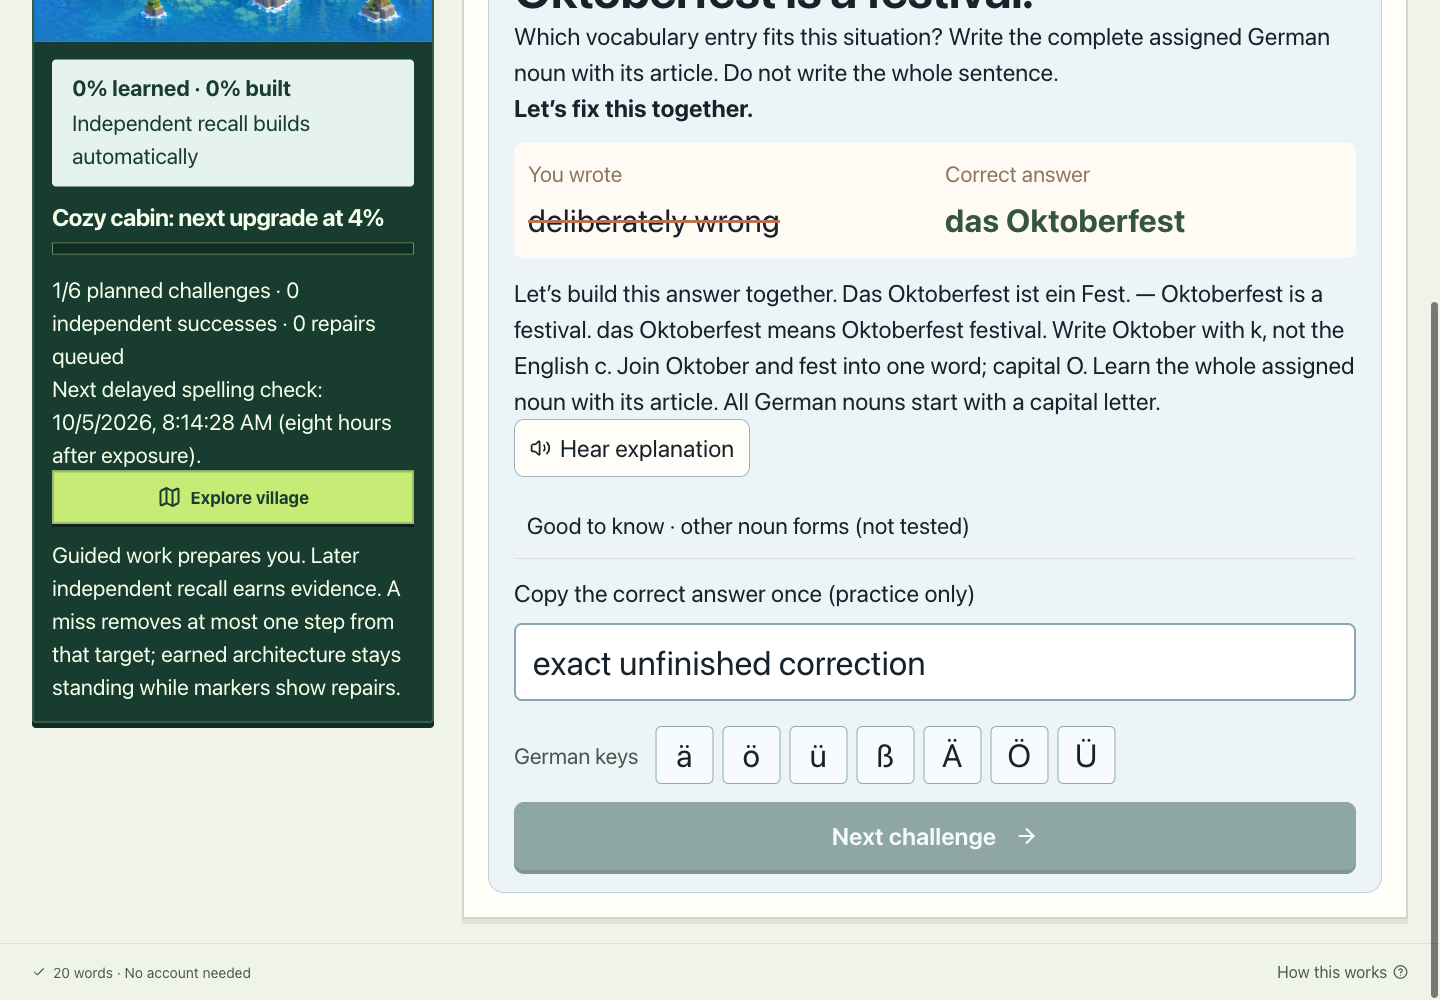
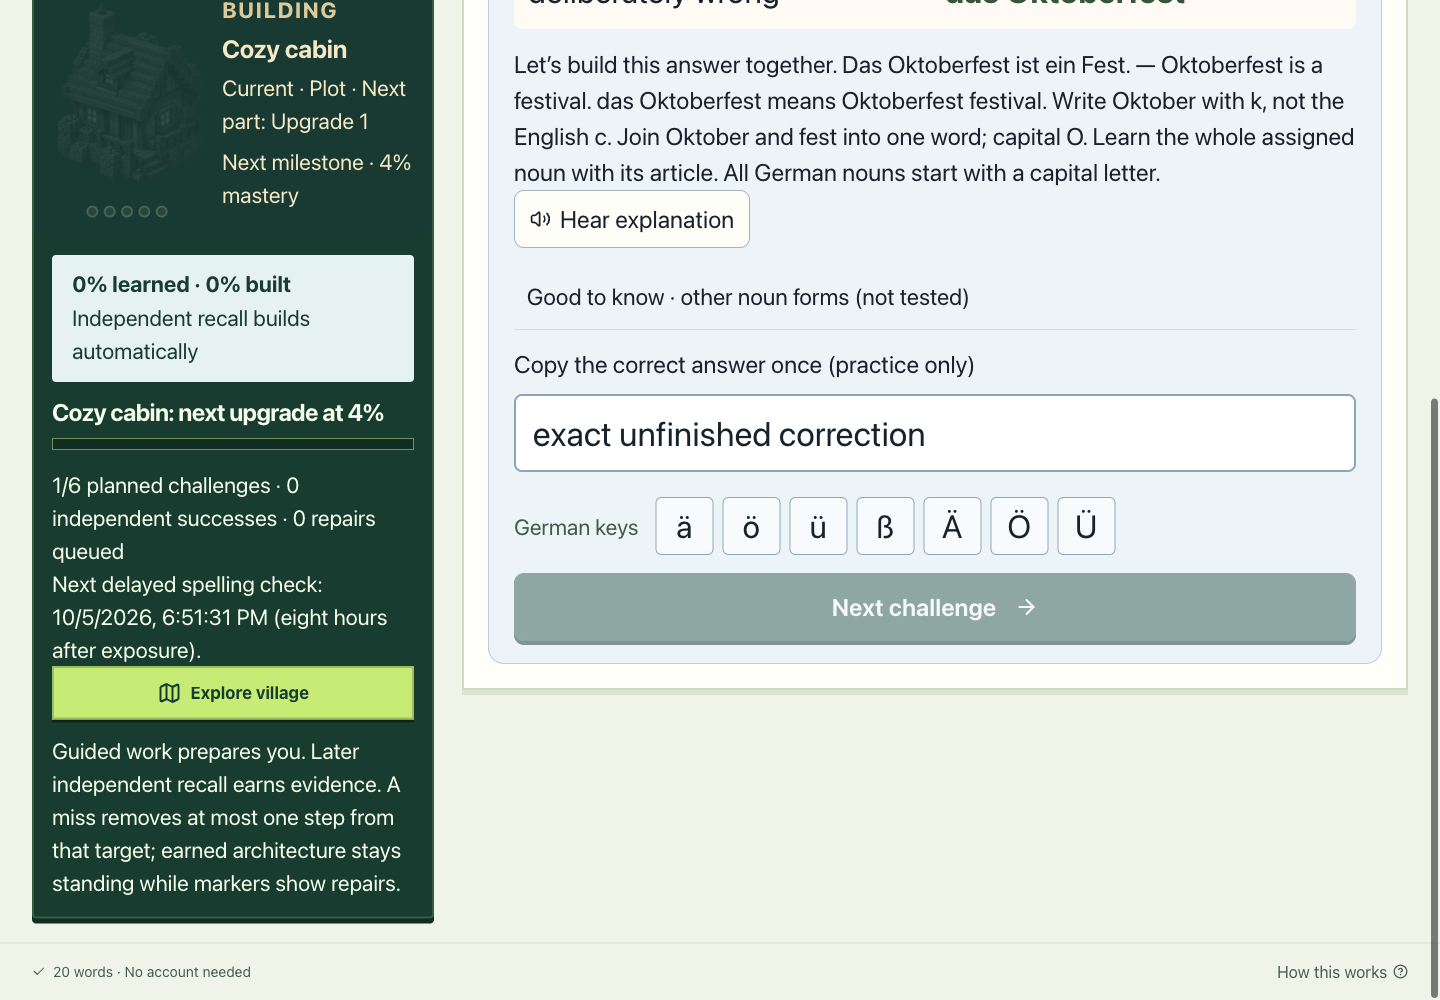
feat(village): show selected district close-up during study

diff --git a/src/Settlement.jsx b/src/Settlement.jsx
@@ -1,6 +1,6 @@
 import React, { useState } from 'react';
 import { deriveSettlement, DISTRICT_CATALOG, buildingMilestones } from './settlement.js';
-import { BUILDINGS } from './game.js';
+import { BUILDINGS, gameStatus } from './game.js';
 import { BuildingSprite } from './Outpost.jsx';
 import VillageBuilding from './VillageBuilding.jsx';
 import ConstructionSprite, { CONSTRUCTION_STAGES } from './ConstructionSprite.jsx';
@@ -19,6 +19,24 @@ function ExistingDistrict({ district }) {
   return <span className="settlement-cluster" aria-label={district.legacy ? `${built.length} legacy rewards` : `Earned architecture at ${district.historicalPercent}%`}>
     {built.map(id => {const i=BUILDINGS.findIndex(b=>b.id===id); return district.legacy ? <BuildingSprite key={id} id={id} className={`settlement-old-building home-slot-${i}`} /> : <VillageBuilding key={id} id={id} currentLevel={district.currentLevels[id]} historicalLevel={district.earnedLevels[id]} className={`settlement-old-building home-slot-${i}`} />;})}
   </span>;
+}
+
+export function DistrictFocus({ library, waveId }) {
+  const district=deriveSettlement(library).find(d=>d.waveId===waveId);
+  if (!district || district.legacy) return null;
+  const status=gameStatus(district.wave.progress.game);
+  const building=status.selectedBuild;
+  const position=district.design.position || {x:50,y:50};
+  return <div className="district-focus" aria-label={`${district.design.name} study close-up`} data-district-id={district.id}>
+    <div className="district-focus-heading"><span className="eyebrow">YOUR DISTRICT · CLOSE-UP</span><strong>{district.design.name}</strong></div>
+    <div className="district-focus-ground" style={{backgroundImage:`url(${terrain})`,backgroundPosition:`${position.x}% ${position.y}%`}}>
+      <ExistingDistrict district={district}/>
+    </div>
+    <div className="district-focus-building">
+      <VillageBuilding id={building.id} currentLevel={district.currentLevels[building.id]} historicalLevel={district.earnedLevels[building.id]}/>
+      <div><span className="eyebrow">{status.allBuilt ? 'EARNED LANDMARK' : 'CURRENT BUILDING'}</span><h3>{building.label}</h3><p>{status.allBuilt ? 'All five upgrades earned.' : `Current · ${district.currentLevels[building.id]===0 ? 'Plot' : `Upgrade ${district.currentLevels[building.id]}`} · Next part: Upgrade ${district.currentLevels[building.id]+1}`}</p><p>{status.allBuilt ? 'District complete.' : `Next milestone · ${status.nextThreshold}% mastery`}</p></div>
+    </div>
+  </div>;
 }
 
 function Scene({ districts, selectedId, onSelect, previewCount, bakeryPreviewLevel }) {

diff --git a/src/Outpost.jsx b/src/Outpost.jsx
@@ -20,8 +20,8 @@ export function BuildingSprite({ id, className = "" }) {
   );
 }
 
-export function MissionHUD({ game, locked, onOpen, onBuild, learning }) {
-  if (learning?.scoringVersion === 2) return <VillageView game={game} learning={learning} compact locked={locked} onOpen={onOpen} />;
+export function MissionHUD({ game, locked, onOpen, onBuild, learning, districtVisual }) {
+  if (learning?.scoringVersion === 2) return <VillageView game={game} learning={learning} compact locked={locked} onOpen={onOpen} districtVisual={districtVisual} />;
   game ||= freshGame();
   const status = gameStatus(game);
   const selected = status.selectedBuild;
@@ -225,14 +225,14 @@ function LegacyOutpost({
   );
 }
 
-export function VillageView({ game, learning, compact, locked, checkpoint, onOpen, onContinue, active, onPractice, onWorkshop }) {
+export function VillageView({ game, learning, compact, locked, checkpoint, onOpen, onContinue, active, onPractice, onWorkshop, districtVisual }) {
   const status = gameStatus(game);
   return <section className={compact ? 'mission-hud village-v2' : 'outpost-screen village-v2'} aria-label="Learning village">
     <div className={compact ? '' : 'outpost-main'}>
-      <div className="outpost-world village-world" role="group" aria-label={`Learning and village: ${learning.percent} percent. ${BUILDINGS.map((b) => `${b.label} level ${status.levels[b.id]}`).join(', ')}`}>
+      {districtVisual || <div className="outpost-world village-world" role="group" aria-label={`Learning and village: ${learning.percent} percent. ${BUILDINGS.map((b) => `${b.label} level ${status.levels[b.id]}`).join(', ')}`}>
         <img className="outpost-island" src={island} alt="" />
         {BUILDINGS.map((b) => <VillageBuilding key={b.id} id={b.id} currentLevel={status.levels[b.id]} historicalLevel={status.historicalLevels[b.id]} className={`world-building plot-${b.id}`} />)}
-      </div>
+      </div>}
       <div className={compact ? 'mission-inventory' : 'outpost-workbench'}>
         <div className="world-caption"><strong>{learning.percent}% learned · {learning.percent}% built</strong><span>{status.allBuilt ? 'All targets verified · portal active' : 'Independent recall builds automatically'}</span></div>
         <h2>{status.allBuilt ? 'Your village is complete.' : `${status.selectedBuild.label}: next upgrade at ${status.nextThreshold}%`}</h2>

diff --git a/src/settlement.css b/src/settlement.css
@@ -62,4 +62,21 @@
 .settlement-inspector .primary,.imported-district button { background:#d8b469; color:#112e28; border:1px solid #d8b469; border-radius:10px; padding:10px 18px; font-size:20px; }
 .selected-bakery { width: min(260px,100%); float:right; margin-left:18px; }
 .map-scroll-hint { display:none; }
+.district-focus { padding:18px; background:#193a32; color:#f5e8c5; border-radius:16px; }
+.district-focus-heading { display:grid; gap:6px; margin-bottom:12px; }
+.district-focus .eyebrow { color:#ddca9a; }
+.district-focus-heading strong { font-size:24px; }
+.district-focus-ground { position:relative; height:300px; overflow:hidden; border-radius:12px; background-size:340% auto; }
+.district-focus-ground .settlement-cluster { inset:20px 12px 15px; }
+.district-focus-ground .settlement-old-building { width:28%; height:67%; }
+.district-focus-building { display:flex; align-items:center; gap:20px; margin-top:15px; }
+.district-focus-building > .village-building { width:150px; min-width:120px; height:260px; }
+.district-focus-building h3 { margin:8px 0; font-size:25px; }
+.district-focus-building p { margin:8px 0; line-height:1.4; font-size:18px; }
+.district-focus-building small { color:#ddca9a; }
+.district-focus .village-upgrade-earned { fill:#ffd06b; stroke:#274737; }
+.district-focus .village-upgrade-previous { fill:none; stroke:#ffd06b; stroke-width:2; }
+.district-focus .village-upgrade-pending { fill:#3a5446; stroke:#869782; }
 @media (max-width:760px) { .map-scroll-hint { display:block; font-size:16px; } .selected-bakery { float:none; margin:0 auto; } }
+
+@media (max-width:760px) { .district-focus-ground { height:180px; } .district-focus-building > .village-building { width:110px; min-width:100px; height:185px; } }

diff --git a/src/App.jsx b/src/App.jsx
@@ -14,7 +14,7 @@ import NounComparison from './NounComparison.jsx';
 import { submittedAnswer, answerFeedback, sessionAccuracy } from './answer-feedback.js';
 import { firstWordContent } from './first-word-content.js';
 import Outpost, { MissionHUD } from "./Outpost.jsx";
-import Settlement from "./Settlement.jsx";
+import Settlement, { DistrictFocus } from "./Settlement.jsx";
 import {
   freshGame,
   gameStatus,
@@ -468,6 +468,7 @@ export default function App({
         className={`workspace ${showOutpost ? "outpost-workspace" : "mission-workspace"}`}
       >
         {!showOutpost && <MissionHUD
+          districtVisual={scoringV2 && settlementLibrary ? <DistrictFocus library={{...settlementLibrary, waves:settlementLibrary.waves.map(w=>w.id===wave.id ? {...w,progress:state} : w)}} waveId={wave.id}/> : null}
           game={state.game}
           learning={learning}
           locked={wordbankLocked || blocked || conflict || paused}

diff --git a/scripts/run-settlement-browser-check.py b/scripts/run-settlement-browser-check.py
@@ -9,10 +9,13 @@ source = (root / 'scripts/verify-settlement-browser.mjs').read_text().replace('e
 (root / 'output/playwright/settlement').mkdir(parents=True, exist_ok=True)
 code = 'async (page) => {\n' + source + '\nreturn await verifySettlement(page);\n}'
 env = dict(os.environ, PWTEST_DAEMON_SESSION_DIR='/private/tmp/wortwerk-pw-daemon', npm_config_cache='/private/tmp/wortwerk-npm-cache')
-result = subprocess.run(['/Users/aliegm/.codex/skills/playwright/scripts/playwright_cli.sh', '-s=wortwerk-expansion', 'run-code', code], cwd=root, env=env, check=True, capture_output=True, text=True)
+result = subprocess.run(['/Users/aliegm/.codex/skills/playwright/scripts/playwright_cli.sh', '-s=wortwerk-expansion', 'run-code', code], cwd=root, env=env, check=False, capture_output=True, text=True)
 print(result.stdout)
+if result.returncode:
+    print(result.stderr)
+    raise SystemExit(result.returncode)
 receipt=json.loads(result.stdout.split("### Result\n")[1].split("\n")[0])
 (root / "docs/evidence/growing-village/browser-result.json").write_text(json.dumps(receipt, indent=2)+"\n")
 
-for name in ['bakery-100.png', 'bakery-4.png', 'bakery-40.png', 'bakery-stages.png', 'connected-complete-future.png', 'connected-current-100.png', 'connected-current-4.png', 'connected-current-40.png', 'exact-correction-resume.png', 'historical-repair.png', 'responsive-1024.png', 'responsive-1280.png', 'responsive-390.png']:
+for name in ['study-closeup-4.png', 'study-closeup-40.png', 'study-closeup-100.png', 'study-closeup-correction.png', 'study-layout-1280.png', 'study-layout-1024.png', 'study-layout-390.png', 'bakery-100.png', 'bakery-4.png', 'bakery-40.png', 'bakery-stages.png', 'connected-complete-future.png', 'connected-current-100.png', 'connected-current-4.png', 'connected-current-40.png', 'exact-correction-resume.png', 'historical-repair.png', 'responsive-1024.png', 'responsive-1280.png', 'responsive-390.png']:
     shutil.copy2(root / "output/playwright/settlement" / name, root / "docs/evidence/growing-village" / name)

diff --git a/docs/task-ledger.md b/docs/task-ledger.md
@@ -94,3 +94,9 @@ Delivery plan, audit trail, asset prompts and activation prerequisites are docum
 PR 5: https://github.com/ezumyn-aliegm/wortwerk/pull/5 is open against fix/study-controls-construction and depends on PR 4. Created through GitHub CLI after the built-in connector returned 403; attached to the implementation chat. Verification source checkpoint: ed69902.
 
 Automatic approval review rejected the requested Notion and Linear posts as sensitive external sharing. Neither record was updated. The exact proposed payload and existing destinations are recorded in docs/growing-village-management-update.md pending explicit approval. No deployment occurred.
+
+## October 5 · Study close-up refinement
+
+Inherited clean 92fcc5c on the existing expansion branch; no restart or live access. Added a Wave 2 study close-up using the same continuous landscape as exploration, large accepted current-building art and explicit current upgrade/next mastery threshold. Wave 1 keeps its accepted study HUD. The whole world remains a single landscape with roads, bridges, forest, fields and harbor, plus ten different future landmark sprites; no repeated district backdrop tiles. Earlier earned structures remain derived from historical evidence.
+
+188 tests pass and production/offline build passes. Expanded real Chrome verification proves matching study/world levels at 0/4/20/40/60/80/100, correction layouts at 1280/1024/390, no page overflow, and exact old/new unfinished session navigation. Screenshots for both views are saved under docs/evidence/growing-village. No deployment, learning-engine, curriculum or save-format changes. Existing management updates remain pending approval after automatic review rejection.

diff --git a/docs/growing-village-delivery.md b/docs/growing-village-delivery.md
@@ -71,3 +71,9 @@ The original authoritative checkout remains clean and unchanged at ad58e30. The 
 PR 5: https://github.com/ezumyn-aliegm/wortwerk/pull/5 is open against fix/study-controls-construction and depends on PR 4. Created through GitHub CLI after the built-in connector returned 403; attached to the implementation chat. Verification source checkpoint: ed69902.
 
 Automatic approval review rejected the requested Notion and Linear posts as sensitive external sharing. Neither record was updated. The exact proposed payload and existing destinations are recorded in docs/growing-village-management-update.md pending explicit approval. No deployment occurred.
+
+## Study close-up and whole-world evidence
+
+Study now shows the selected Autumn district on a crop of the continuous world terrain, large current-building artwork, current upgrade and next mastery threshold. It uses the live selected-wave state, not a copied saved snapshot. Existing Autumn sprites honestly remain learning upgrades; structural foundation/frame artwork remains in the future bakery preview. Wave 1 study artwork is unchanged.
+
+Actual browser screenshots: study-closeup-4.png, study-closeup-40.png, study-closeup-100.png; study-layout-1280.png, study-layout-1024.png and study-layout-390.png; connected-complete-future.png for the whole landscape. These files are in docs/evidence/growing-village. Browser assertions cover all seven checkpoints and exact unfinished correction round-trip. Ten future landmarks differ; the two current districts retain their accepted shared atlas. Future places remain nonplayable plans.
